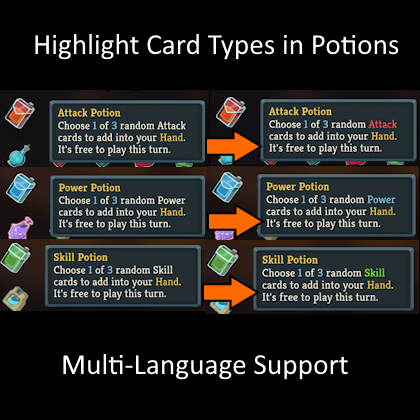
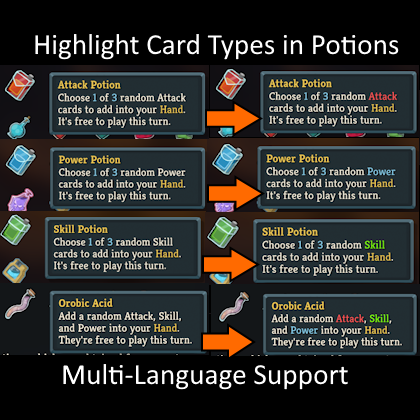
Supress LocException into a warning, Slightly Better Modimage

diff --git a/HighlightPotionCardsCode/PotionDescPatch.cs b/HighlightPotionCardsCode/PotionDescPatch.cs
@@ -16,27 +16,27 @@ public static class PotionDescPatch {
             Dictionary<string,string> toHighlight = [];
             string unformattedRegex = "(?<!\\]){0}(?!\\[)";
             
-            toHighlight.AddHighlight(new LocString("gameplay_ui", "DISCARD_PILE").GetFormattedText());
-            toHighlight.AddHighlight(new LocString("gameplay_ui", "DRAW_PILE").GetFormattedText());
-            toHighlight.AddHighlight(new LocString("gameplay_ui", "EXHAUST_PILE").GetFormattedText(),"[purple]{0}[/purple]");
+            toHighlight.AddHighlight("gameplay_ui", "DISCARD_PILE");
+            toHighlight.AddHighlight("gameplay_ui", "DRAW_PILE");
+            toHighlight.AddHighlight("gameplay_ui", "EXHAUST_PILE","[purple]{0}[/purple]");
             
-            toHighlight.AddHighlight(new LocString("extensions", "EXTENSION.card.humanizedCardTypes.attack").GetFormattedText(),"[red]{0}[/red]");
-            toHighlight.AddHighlight(new LocString("extensions", "EXTENSION.card.humanizedCardTypes.curse").GetFormattedText(),"[purple]{0}[/purple]");
-            toHighlight.AddHighlight(new LocString("extensions", "EXTENSION.card.humanizedCardTypes.power").GetFormattedText(),"[blue]{0}[/blue]");
-            toHighlight.AddHighlight(new LocString("extensions", "EXTENSION.card.humanizedCardTypes.quest").GetFormattedText(),"[green]{0}[/green]");
-            toHighlight.AddHighlight(new LocString("extensions", "EXTENSION.card.humanizedCardTypes.skill").GetFormattedText(),"[green]{0}[/green]");
-            toHighlight.AddHighlight(new LocString("extensions", "EXTENSION.card.humanizedCardTypes.status").GetFormattedText(),"[black]{0}[/black]");
+            toHighlight.AddHighlight("extensions", "EXTENSION.card.humanizedCardTypes.attack","[red]{0}[/red]");
+            toHighlight.AddHighlight("extensions", "EXTENSION.card.humanizedCardTypes.curse","[purple]{0}[/purple]");
+            toHighlight.AddHighlight("extensions", "EXTENSION.card.humanizedCardTypes.power","[blue]{0}[/blue]");
+            toHighlight.AddHighlight("extensions", "EXTENSION.card.humanizedCardTypes.quest","[green]{0}[/green]");
+            toHighlight.AddHighlight("extensions", "EXTENSION.card.humanizedCardTypes.skill","[green]{0}[/green]");
+            toHighlight.AddHighlight("extensions", "EXTENSION.card.humanizedCardTypes.status","[black]{0}[/black]");
             
-            toHighlight.AddHighlight(new LocString("gameplay_ui", "CARD_TYPE.ATTACK").GetFormattedText(),"[red]{0}[/red]");
-            toHighlight.AddHighlight(new LocString("gameplay_ui", "CARD_TYPE.CURSE").GetFormattedText(),"[purple]{0}[/purple]");
-            toHighlight.AddHighlight(new LocString("gameplay_ui", "CARD_TYPE.POWER").GetFormattedText(),"[blue]{0}[/blue]");
-            toHighlight.AddHighlight(new LocString("gameplay_ui", "CARD_TYPE.QUEST").GetFormattedText(),"[green]{0}[/green]");
-            toHighlight.AddHighlight(new LocString("gameplay_ui", "CARD_TYPE.SKILL").GetFormattedText(),"[green]{0}[/green]");
-            toHighlight.AddHighlight(new LocString("gameplay_ui", "CARD_TYPE.STATUS").GetFormattedText(),"[black]{0}[/black]");
+            toHighlight.AddHighlight("gameplay_ui", "CARD_TYPE.ATTACK","[red]{0}[/red]");
+            toHighlight.AddHighlight("gameplay_ui", "CARD_TYPE.CURSE","[purple]{0}[/purple]");
+            toHighlight.AddHighlight("gameplay_ui", "CARD_TYPE.POWER","[blue]{0}[/blue]");
+            toHighlight.AddHighlight("gameplay_ui", "CARD_TYPE.QUEST","[green]{0}[/green]");
+            toHighlight.AddHighlight("gameplay_ui", "CARD_TYPE.SKILL","[green]{0}[/green]");
+            toHighlight.AddHighlight("gameplay_ui", "CARD_TYPE.STATUS","[black]{0}[/black]");
 
             /* TODO: i cant find the "colorless" or "cards" word to get "colorless" from "POOL_COLORLESS_TIP
              
-            string colorless = new LocString("card_library", "POOL_COLORLESS_TIP").GetFormattedText();
+            string colorless = "card_library", "POOL_COLORLESS_TIP";
             colorless = Regex.Replace(colorless, "\\.$", "");
             //colorless = Regex.Replace(colorless, " [A-Za-z0-9]*$", "");
             toHighlight.AddHighlight(colorless,"[gray]{0}[/gray]");
@@ -51,7 +51,17 @@ public static class PotionDescPatch {
         }
     }
 
-    static void AddHighlight(this Dictionary<string,string> toHighlight, string entry, string? highlightFormat = null,bool forceInsert = false) {
+    static void AddHighlight(this Dictionary<string,string> toHighlight, string table, string key, string? highlightFormat = null,bool forceInsert = false) {
+
+        string? entry = null;
+        try {
+            entry = new LocString(table, key).GetFormattedText();
+        }
+        catch (LocException e) {
+            MainFile.Logger.Warn(e.Message);
+            return;
+        }
+        
         highlightFormat ??= "[gold]{0}[/gold]";
         if(!toHighlight.TryAdd(entry, highlightFormat) && forceInsert) {
             toHighlight.Remove(entry);
